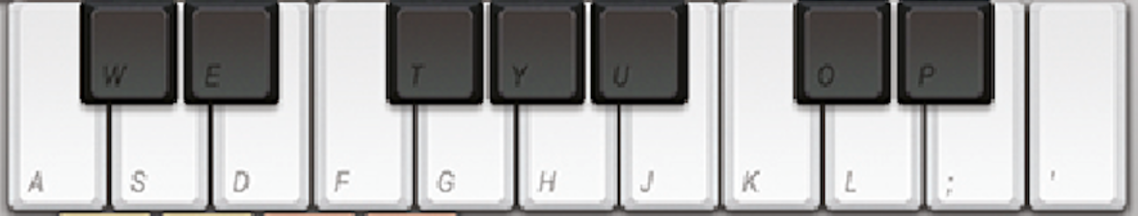
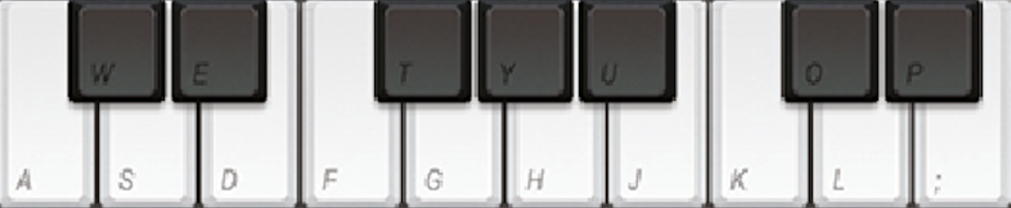
add synth help info

diff --git a/index.html b/index.html
@@ -4,6 +4,7 @@
         <meta charset="utf-8">
         <title>Syntheseyeser</title>
         <link rel="stylesheet" href="styles.css">
+        <link href="https://maxcdn.bootstrapcdn.com/font-awesome/4.7.0/css/font-awesome.min.css" rel="stylesheet" integrity="sha384-wvfXpqpZZVQGK6TAh5PVlGOfQNHSoD2xbE+QkPxCAFlNEevoEH3Sl0sibVcOQVnN" crossorigin="anonymous">
 
         <meta name="viewport" content="width=device-width, initial-scale=1, maximum-scale=1, user-scalable=no">
 
@@ -73,7 +74,7 @@
             <div class='synth-holder-div'>
               <div>
             <svg class='synth-view-close' id='synth-view-close' xmlns="http://www.w3.org/2000/svg" width="40" height="40" viewBox="0 0 24 24" fill="none" stroke="white" stroke-width="1" stroke-linecap="round" stroke-linejoin="round" class="feather feather-chevron-down"><polyline points="6 9 12 15 18 9"></polyline></svg>
-            <svg class='synth-view-close' id='synth-help-button' xmlns="http://www.w3.org/2000/svg" width="24" height="24" viewBox="0 0 24 24" fill="none" stroke="white" stroke-width="1" stroke-linecap="round" stroke-linejoin="round" class="feather feather-file-text"><path d="M14 2H6a2 2 0 0 0-2 2v16a2 2 0 0 0 2 2h12a2 2 0 0 0 2-2V8z"></path><polyline points="14 2 14 8 20 8"></polyline><line x1="16" y1="13" x2="8" y2="13"></line><line x1="16" y1="17" x2="8" y2="17"></line><polyline points="10 9 9 9 8 9"></polyline></svg>
+            <div class='synth-help-button' id='synth-help-button'><i id="synth-help-button" class="fa fa-question fa-2x" aria-hidden="true"></i></div>
             <div class='delay'>
               <div class='delay-text'>Delay</div>
               <div class='dial'>
@@ -88,20 +89,23 @@
             <canvas nx='keyboard' id='keyboard'></canvas>
           </div>
           <div class='synth-help' id='synth-help'>
-            <svg class='close-synth-help' id='close-synth-help' xmlns="http://www.w3.org/2000/svg" width="24" height="24" viewBox="0 0 24 24" fill="none" stroke="white" stroke-width="1" stroke-linecap="round" stroke-linejoin="round">
-              <line x1="18" y1="6" x2="6" y2="18"/>
-              <line x1="6" y1="6" x2="18" y2="18"/>
-            </svg>
-            <div>Synth Help</div>
-            <div> The synth can be played by clicking the piano pictured, or using your computer keyboard.
-              Keyboard letters respond to the piano as follows</div>
-            <img class='keymap' src='keymap.png'/>
-            <div> Delay Help </div>
-            <div> An audio delay creates an echo effect.
-              The Time knob adjusts the time of which you hear the echo after the sound is played.
-              The Feedback knob adjusts how much of the echo you hear. i.e. Feedback value of 1 will produce a never ending echo</div>
-
-        </div>
+            <div class='synth-help-text'>
+              <div class='help-title'>Synth Help</div>
+              <div class='help-text'> The synth can be played by clicking the piano pictured, or using your computer keyboard.
+                Keyboard letters respond to the piano as follows</div>
+              <img class='keymap' src='keymap.png'/>
+            </div>
+            <div class='synth-help-text'>
+              <div class='help-title'> Delay Help </div>
+              <div class='help-text'> An audio delay creates an echo effect. </div>
+                <div class='help-text'>The Time knob adjusts the time of which you hear the echo after the sound is played.</div>
+                <div class='help-text'>The Feedback knob adjusts how much of the echo you hear. i.e. Feedback value of 1 will produce a never ending echo</div>
+              </div>
+              <svg class='close-synth-help' id='close-synth-help' xmlns="http://www.w3.org/2000/svg" width="24" height="24" viewBox="0 0 24 24" fill="none" stroke="white" stroke-width="1" stroke-linecap="round" stroke-linejoin="round">
+                <line x1="18" y1="6" x2="6" y2="18"/>
+                <line x1="6" y1="6" x2="18" y2="18"/>
+              </svg>
+            </div>
         </div>
         </div>
         </div>

diff --git a/src/entry.jsx b/src/entry.jsx
@@ -143,11 +143,7 @@ document.addEventListener("DOMContentLoaded", () => {
         }
       });
 
-      // var view = document.getElementById('view');
-      //   view.addEventListener('on', function (e) {
-      //     console.log(e);
-      //   }
-      // );
+
         var welcomeModal = document.getElementById('welcomeModal');
         var span = document.getElementsByClassName("close")[0];
         welcomeModal.style.display = "block";
@@ -174,7 +170,7 @@ document.addEventListener("DOMContentLoaded", () => {
 
         synthHelpButton.addEventListener('mousedown', function(e) {
           e.preventDefault();
-          synthHelpView.style.display = "block";
+          synthHelpView.style.display = "flex";
         });
 
         closeSynthHelp.addEventListener('mousedown', function(e){

diff --git a/styles.css b/styles.css
@@ -123,7 +123,6 @@ a{
 }
 
 
-
 .synth-view{
   transition: all 1s ease;
   text-align: center;
@@ -132,7 +131,18 @@ a{
 .synth-view-close{
   padding-bottom: 20px;
   cursor: pointer;
+	position: absolute;
 }
+
+.synth-help-button{
+	text-align: right;
+	cursor: pointer;
+}
+
+.fa-question{
+	color: white;
+}
+
 
 .delay{
   padding-top: 10px;
@@ -161,14 +171,29 @@ a{
 }
 
 .synth-help{
-	width: 600px;
+	display: flex;
+	flex-direction: row;
+	/*width: 600px;*/
 	color: white;
-	font-size: 18px;
+	font-size: 22px;
 }
 
+.synth-help-text{
+	width: 40%;
+	margin-left: 5%;
+}
+
+.help-title{
+	padding-bottom: 10px;
+}
+.help-text{
+	font-size: 16px;
+	font-weight: lighter;
+	padding-bottom: 5%;
+}
 .keymap{
 	height: 100px;
-	width: 500px;
+	width: 100%;
 }
 
 .close-synth-help{

diff --git a/bundle.js b/bundle.js
@@ -22664,11 +22664,6 @@ document.addEventListener("DOMContentLoaded", function () {
     }
   });
 
-  // var view = document.getElementById('view');
-  //   view.addEventListener('on', function (e) {
-  //     console.log(e);
-  //   }
-  // );
   var welcomeModal = document.getElementById('welcomeModal');
   var span = document.getElementsByClassName("close")[0];
   welcomeModal.style.display = "block";
@@ -22695,7 +22690,7 @@ document.addEventListener("DOMContentLoaded", function () {
 
   synthHelpButton.addEventListener('mousedown', function (e) {
     e.preventDefault();
-    synthHelpView.style.display = "block";
+    synthHelpView.style.display = "flex";
   });
 
   closeSynthHelp.addEventListener('mousedown', function (e) {
